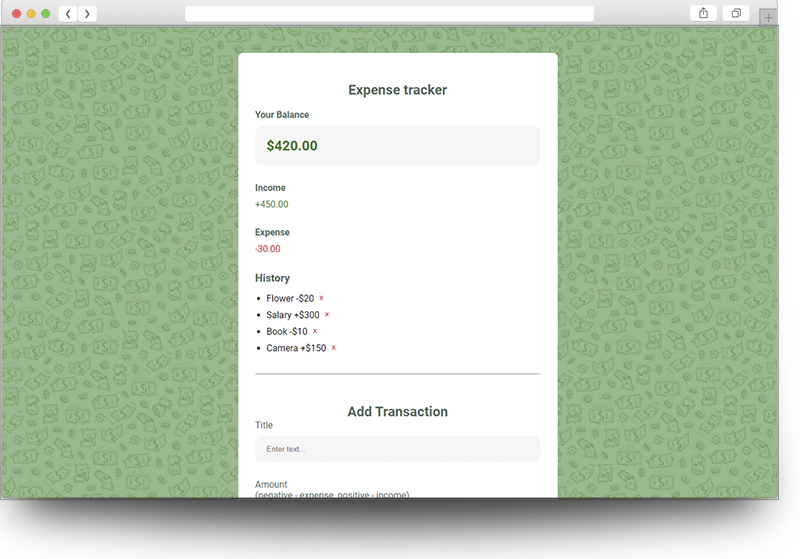
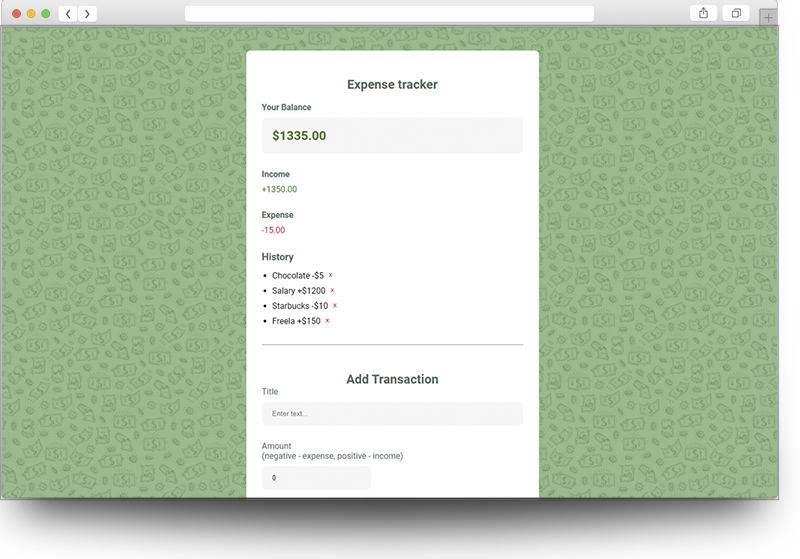
Bug in positive amount fixed

diff --git a/src/context/GlobalState.js b/src/context/GlobalState.js
@@ -4,10 +4,10 @@ import AppReducer from './AppReducer'
 //Initial state
 const initialState = {
     transactions: [
-        {id: 1, text: 'Flower', amount: -20},
-        {id: 2, text: 'Salary', amount: 300},
-        {id: 3, text: 'Book', amount: -10},
-        {id: 4, text: 'Camera', amount: 150},
+        {id: 1, text: 'Chocolate', amount: -5},
+        {id: 2, text: 'Salary', amount: 1200},
+        {id: 3, text: 'Starbucks', amount: -10},
+        {id: 4, text: 'Freela', amount: 150},
     ]
 }
 

diff --git a/src/components/Balance.js b/src/components/Balance.js
@@ -5,7 +5,7 @@ export const Balance = () => {
     const { transactions } = useContext(GlobalContext);
 
     const amounts = transactions.map(transaction => transaction.amount);
-    const total = amounts.reduce((acc, item) => (acc +- item), 0).toFixed(2);
+    const total = amounts.reduce((acc, item) => (acc + item), 0).toFixed(2);
 
     return(
         <div>
